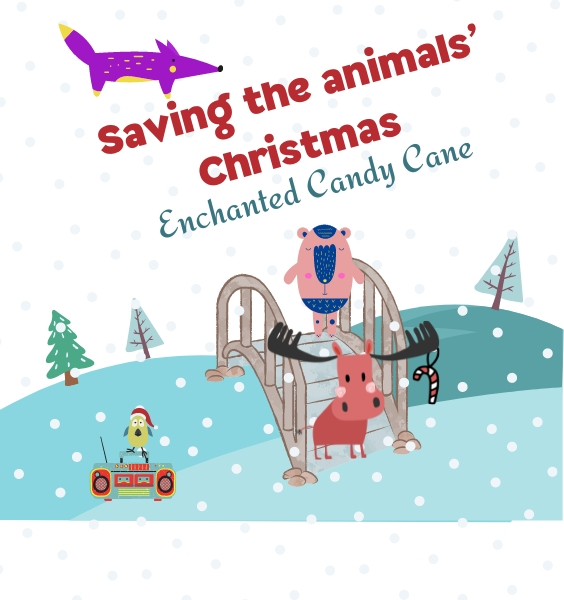
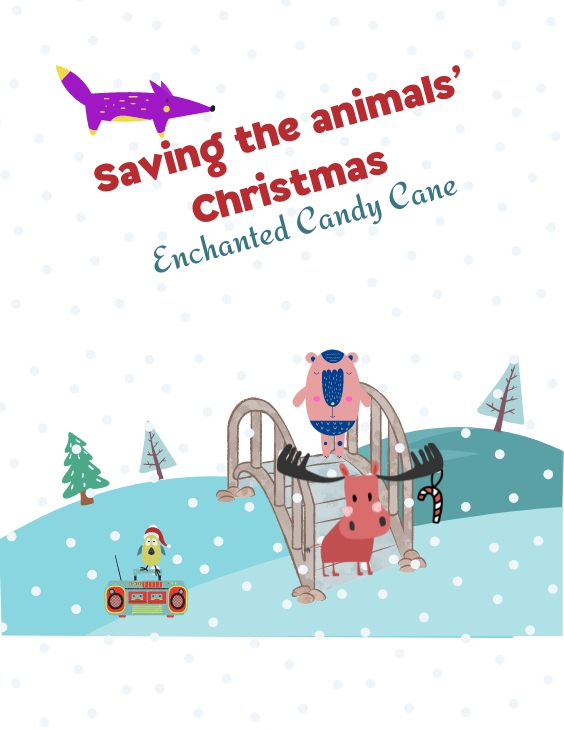
thumb project css 10 em

diff --git a/assets/scss/components/_project.scss b/assets/scss/components/_project.scss
@@ -3,11 +3,12 @@
   overflow: hidden;
   &-item{
     position: relative;
+    margin-left: 10em;
     margin-bottom: 30px;
     transition: all 0.3s ease-in;
     &-thumb{
       img{
-        width: 80%;
+        width: 100%;
       }
     }
     &-content{
@@ -28,6 +29,9 @@
         margin-bottom: 10px;
       }
       h3{
+        @include mobile {
+          font-size: 1.5em;
+        }
         margin-bottom: 0;
         a{
           color: $text-color-dark;
@@ -129,11 +133,12 @@
         @include tablet{
           font-size: 25px;
         }
+      
       }
       img{
         width: 40px;
         @include tablet{
-          width: 40px;
+          width: 30px;
         }
       }
       &:hover{
@@ -173,7 +178,7 @@
   }
   &-single{
     &-section{
-      padding: 250px 0 100px;
+      padding: 120px 0 50px;
       @include tablet{
         padding: 100px 0;
       }
@@ -187,12 +192,18 @@
       }
     }
     &-image{
-      display: flex;
-      flex-wrap: wrap;
+      display: grid;
       margin-bottom: 30px;
+      grid-template-columns: 1fr 1fr;
+      width: 100%;
+      @include mobile {
+        grid-template-columns: 1fr;
+      }
       
       img{
-        width: 49%;
+        width: 99%;
+        border: 1px solid rgba(197, 134, 134, 0.466);
+        // border-color: $dark-rose;
         margin-top: 1em;
         &:nth-child(2n){
           margin-left: auto;
@@ -205,7 +216,7 @@
       }
     }
     &-description{
-      margin-bottom: 50px;
+      margin-bottom: 0.5em;
       p{
         margin-bottom: 30px;
       }
@@ -264,7 +275,7 @@
 }
 
 .imagine-coperta {
-  max-width: 50%;
+  max-width: 30%;
   float: right;
   margin-left: 1.5em;
   margin-bottom: 1.5em;
@@ -278,22 +289,25 @@
 
 .btn-amazon {
   background-color: #ff6600;
-  padding: 0.5em 1em 0.5em 1em;
+  padding: 0.2em 0.5em 0.2em 0.5em;
   border-radius: 10px;
   color: antiquewhite;
   font-size: 1.5em;
   // border: solid 2px;
   // border-color: #fe6901;
   box-shadow: 3px 3px 5px rgb(161, 136, 80);
-  width: 50%;
+  width: 30%;
   display: inline-block;
   text-align: center;
+  @include mobile {
+    width: 80%;
+  }
  
 }
 .btn-amazon:hover {
   color: white;
   text-decoration:none;
-  background: darken($color: #ff7400, $amount: 6);
+  background: darken($color: #ff7400, $amount: 10);
 }
 
 .amazon-button-container {

diff --git a/layouts/portfolio/list.html b/layouts/portfolio/list.html
@@ -23,7 +23,7 @@
 <section class="site-project" id="project">
   <div class="container">
     <div class="row">
-      {{ range (.Paginator 4).Pages }}
+      {{ range (.Paginator 6).Pages }}
       <div class="col-lg-6 col-md-10 mx-auto">
         <div class="site-project-item">
           <div class="site-project-item-thumb">
@@ -32,7 +32,7 @@
           <div class="site-project-item-content">
             <span>{{ delimit .Params.category ", " }}</span>
             <h3><a href="{{ .Permalink }}">{{ .Title }}</a></h3>
-            <a href="{{ .Permalink }}" class="read-more">view project</a>
+            <a href="{{ .Permalink }}" class="read-more">view book</a>
           </div>
         </div>
       </div>

diff --git a/content/portfolio/Tricking Santa Misterious Attic Christmas Books For Children.en.md b/content/portfolio/Tricking Santa Misterious Attic Christmas Books For Children.en.md
@@ -1,0 +1,17 @@
+---
+title: "Tricking Santa | The Mysterious Attic | Tammy & Bobby’s Adventures"
+date: 2020-12-12T20:56:42+06:00
+type: portfolio
+image: "images/projects/Tricking Santa Misterious Attic Christmas Books For Children.jpg"
+category: ["Christmas Books for Kids age 4-12"]
+coperta: "images/projects/Tricking Santa Misterious Attic Christmas Books For Children.jpg"
+amazonlink: "https://a.co/d/0S8oDdS"
+project_images: ["images/projects/i Tricking Santa Misterious Attic Christmas Books For Children.jpg", "images/projects/i 2 Tricking Santa Misterious Attic Christmas Books For Children.jpg"]
+---
+
+
+This Christmas story book is about two children Tammy & Bobby who wanted to play a trick on Santa Claus, but discovered the pleasure of giving and being kind. In the meantime they almost find out who Santa really is…
+
+A perfect book choice for seasonal read-alouds, Christmas reading and holiday gift-giving. Recommended age is 4-12 years, but who doesn't love a new Christmas story…
+
+

diff --git a/content/portfolio/Saving-animals-christmas-kids-books.en.md b/content/portfolio/Saving-animals-christmas-kids-books.en.md
@@ -6,7 +6,7 @@ image: "images/projects/Books forkids Saving the Animal Christmas Enchanted Cand
 category: ["Christmas Books for Kids age 2-6"]
 coperta: "images/projects/Books forkids Saving the Animal Christmas Enchanted Candy Cane.jpg"
 amazonlink: "https://a.co/d/2IJ5PH1"
-project_images: ["images/projects/i christmas books for kids saving christmas animals.jpg", "images/projects/i 2 christmas books for kids saving christmas animals.jpg", "images/projects/i 3 christmas books for kids saving christmas animals.jpg", "images/projects/i 4 christmas books for kids saving christmas animals.jpg"]
+project_images: ["images/projects/i christmas books for kids saving christmas animals.jpg", "images/projects/i 2 christmas books for kids saving christmas animals.jpg", "images/projects/i 3 christmas books for kids saving christmas animals.jpg", "images/projects/i 4 christmas books for kids saving christmas animals.jpg" ]
 ---
 
 
